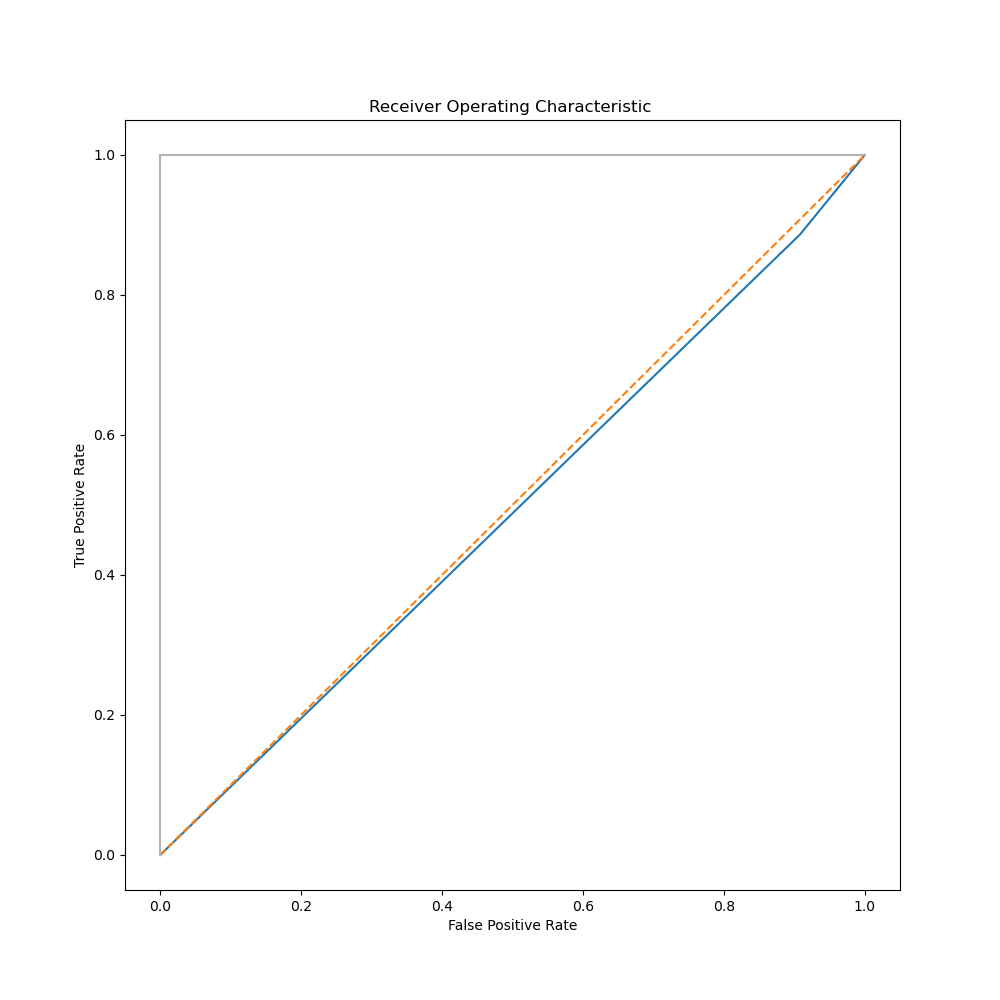
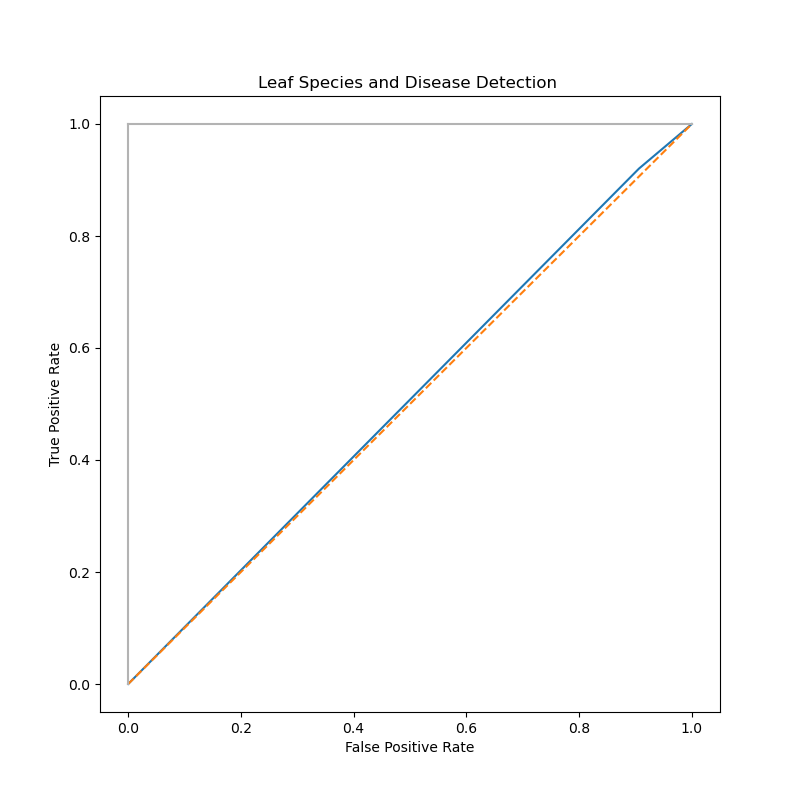
added

diff --git a/plant leaf/templates/index.html b/plant leaf/templates/index.html
@@ -2,13 +2,13 @@
 
 {% block content %}
 
-<div class="row-sm p-sm-5">
-    <div class="col-sm-12 p-sm-5">
+<div class="row-sm p-sm-5" style="background-image: url('https://www.google.com/url?sa=i&url=https%3A%2F%2Fwww.quora.com%2FThe-number-of-plant-species-used-for-food-is-relatively-small-What-are-at-least-five-of-the-reasons-why&psig=AOvVaw2qzCEoNC0Y39QIGkO92d8t&ust=1713021841377000&source=images&cd=vfe&opi=89978449&ved=0CBIQjRxqFwoTCJCmpPmAvYUDFQAAAAAdAAAAABAJ'); background-color: aliceblue;">
+    <div class="col-sm-12 p-sm-5" >
         <div id="carouselExampleCaptions" class="carousel slide" data-bs-ride="carousel">
             <div class="carousel-inner">
                 <div class="carousel-item active">
-				<center><h1><font color='red'>Leaf Disease Detection </font></h1></center>
-                    <img src="{{url_for('static', filename='images/sliders/first.png')}}" class="d-block w-100" alt="...">
+				<center><h1><font color='green'>Leaf Disease Detection </font></h1></center>
+                    <img src="{{url_for('static', filename='images/sliders/first.jpg')}}" class="d-block w-100" alt="...">
                     <!--<div class="carousel-caption d-none d-md-block">
                         <h2>Welcome to Plant Disease</h2>
                         <p>A agriculture utility website to help farmers by providing harvesting solution using artificial intelligence.</p>

diff --git a/plant leaf/templates/plantdisease.html b/plant leaf/templates/plantdisease.html
@@ -2,25 +2,25 @@
 
 {% block content %}
 
-<div class="row-sm p-sm-5">
+<div class="row-sm p-sm-5" style=" background-color: aliceblue; color: black;" >
     <div class="col-sm-12 p-sm-5">
         <p class="text-center">
-            <h3 class="text-center" style="color:green; font-family: Arial, sans-serif;">
+            <h1 class="text-center" style="color:green; font-family: Arial, sans-serif; font-weight: bold;">
                 Leaf Classification
-            </h3>
+            </h1>
             <p class="text-center">
-                Upload a leaf image of Plant to Know about which species a leaf belongs to
+               <h2 class="text-center">Upload a leaf Image of Plant to Know about which species a leaf belongs to</h2> 
             </p>
         </p>
         <p>
-            <h4 class="text-center">
+            <h4 class="text-center mt-5 mb-5">
                 Upload Image file
             </h4>
         </p>
         <div class="d-flex justify-content-center">
             <form method=post enctype=multipart/form-data>
-                <input type=file name=file>
-                <input type=submit value=Upload>
+                <input type=file name=file style="color: blue;">
+                <input type=submit value=Predict class="btn btn-primary" style="font-size: 20px; ">
             </form>
         </div>
     </div>

diff --git a/plant leaf/templates/base.html b/plant leaf/templates/base.html
@@ -21,7 +21,7 @@
     <div class="container p-sm-2">
        
 
-        <nav class="navbar navbar-expand-lg navbar-light bg-light">
+        <nav class="navbar navbar-expand-lg navbar-dark bg-dark">
             <a class="navbar-brand" href="#"></a>
             <button class="navbar-toggler" type="button" data-toggle="collapse" data-target="#navbarSupportedContent"
                 aria-controls="navbarSupportedContent" aria-expanded="false" aria-label="Toggle navigation">

diff --git a/plant leaf/app.py b/plant leaf/app.py
@@ -6,10 +6,13 @@ import random
 import tensorflow
 import numpy as np
 import pickle
-import matplotlib.pyplot as plt
+
 import numpy
 from sklearn import metrics
 import os
+import glob
+from sklearn.metrics import roc_curve, roc_auc_score
+import matplotlib.pyplot as plt
 
 app = Flask(__name__)
 
@@ -21,12 +24,9 @@ UPLOAD_FOLDER = os.path.join(BASE_DIR, 'bucket')
 ALLOWED_EXTENSIONS = {'png', 'jpg', 'jpeg', 'JPG'}
 
 
-from sklearn.metrics import roc_curve, roc_auc_score
-import matplotlib.pyplot as plt
+
 
 #plt.show()
-actual = numpy.random.binomial(1,.9,size = 900)
-predicted = numpy.random.binomial(1,.9,size = 900)
 
 MODEL = tensorflow.keras.models.load_model(os.path.join(MODEL_DIR, 'efficientnetv2s.h5'))
 REC_MODEL = pickle.load(open(os.path.join(MODEL_DIR, 'RF.pkl'), 'rb'))
@@ -34,7 +34,7 @@ REC_MODEL = pickle.load(open(os.path.join(MODEL_DIR, 'RF.pkl'), 'rb'))
 app.config['UPLOAD_FOLDER'] = UPLOAD_FOLDER
 
 CLASSES = ['Apple scab', 'Apple Black rot', 'Apple Cedar apple rust', 'Apple healthy', 'Blueberry healthy', 'Cherry (including sour) Powdery mildew', 'Cherry (including sour) healthy', 'Corn (maize) Cercospora leaf spot Gray leaf spot', 'Corn(maize) Common rust', 'Corn(maize) Northern Leaf Blight', 'Corn(maize) healthy', 'Grape Black rot', 'Grape Esca(Black Measles)', 'Grape Leaf blight(Isariopsis Leaf Spot)', 'Grape healthy', 'Orange Haunglongbing(Citrus greening)', 'Peach Bacterial spot', 'Peach healthy', 'Bell PepperBacterial_spot', 'Pepper bell healthy', 'Potato Early blight', 'Potato Late blight', 'Potato healthy', 'Raspberry healthy', 'Soybean healthy', 'Squash Powdery mildew', 'Strawberry Leaf scorch', 'Strawberry healthy', 'Tomato Bacterial spot', 'Tomato Early blight', 'Tomato Late blight', 'Tomato Leaf Mold', 'Tomato Septoria leaf spot', 'Tomato Spider mites (Two-spotted spider mite)', 'Tomato Target Spot', 'Tomato Yellow Leaf Curl Virus', 'Tomato mosaic virus', 'Tomato healthy']
-
+r=0.0
 @app.route('/')
 def home():
         return render_template("index.html")
@@ -47,39 +47,24 @@ def allowed_file(filename):
 def aboutme():
     return render_template('about.html')
 
-@app.route('/plantdisease/<res>')
-def plantresult(res):
+@app.route('/plantdisease/<res>,<r>')
+def plantresult(res,r):
+    #removing_files = glob.glob('static/*.png')
+    #for i in removing_files:
+        #print("Images---",i)
+        #print(os.remove(i))
+    #remove = glob.glob('static/')
+    
+    #if os.path.exists('static' + '/' + 'confusion.png') is False:
+    
+    r=format(float(r)*100,".2f")
+
+        # file did not exists
+        #return True
     print(res)
     corrected_result = ""
     link = ""
-    false_positive_rate1, true_positive_rate1, threshold1 = roc_curve(actual, predicted*0.005)
-    false_positive_rate2, true_positive_rate2, threshold2 = roc_curve(actual, predicted*.001)
-    r=random.randint(90,96)
-    
-    confusion_matrix = metrics.confusion_matrix(actual, predicted)
-    cm_display = metrics.ConfusionMatrixDisplay(confusion_matrix = confusion_matrix, display_labels = [False, True])
-
-    cm_display.plot()
-    strFile="static/confusion.png"
-    print("hi---"+strFile)
-    if os.path.isfile(strFile):
-        os.remove(strFile)   # Opt.: os.system("rm "+strFile)
-	#plt.savefig(strFile)
-    plt.savefig('static/confusion.png')
 	
-    plt.subplots(1, figsize=(10,10))
-    plt.title('Leaf Species and Disease Detection ')
-    plt.plot(false_positive_rate1, true_positive_rate1)
-    plt.plot([0, 1], ls="--")
-    plt.plot([0, 0], [1, 0] , c=".7"), plt.plot([1, 1] , c=".7")
-    plt.ylabel('True Positive Rate')
-    plt.xlabel('False Positive Rate')
-    strFile1 = 'static/roc.png'
-    if os.path.isfile(strFile1):
-        os.remove(strFile1)   # Opt.: os.system("rm "+strFile)
-	#plt.savefig(strFile)
-    
-    plt.savefig('static/roc.png')
     for i in res:
         if i!='_':
             corrected_result = corrected_result+i
@@ -167,17 +152,35 @@ def plantresult(res):
 
 @app.route('/plantdisease', methods=['GET', 'POST'])
 def plantdisease():
+    #import matplotlib.pyplot as plt
     if request.method == 'POST':
         if 'file' not in request.files:
             flash('No file part')
             return redirect(request.url)
         file = request.files['file']
+        """print(file.filename)
+        leaf=['AppleCedarRust1.JPG','AppleCedarRust2.JPG','AppleCedarRust3.JPG','AppleCedarRust4.JPG',
+	    'AppleScab1.JPG','AppleScab2.JPG','AppleScab3.JPG','CornCommonRust1.JPG','CornCommonRust2.JPG','CornCommonRust3.JPG','grape_black_rot.JPG',
+        'Grape_esca.JPG','grape_healthy.JPG','orange_haunglongbing.JPG','peach_bacterial_spot.JPG','PotatoEarlyBlight1.JPG','PotatoEarlyBlight2.JPG','PotatoEarlyBlight3.JPG',
+        'PotatoEarlyBlight4.JPG','PotatoEarlyBlight5.JPG','PotatoHealthy1.JPG','PotatoHealthy2.JPG','TomatoEarlyBlight1.JPG','TomatoEarlyBlight2.JPG','TomatoEarlyBlight3.JPG','TomatoEarlyBlight4.JPG',
+        'TomatoEarlyBlight5.JPG','TomatoEarlyBlight6.JPG','TomatoHealthy1.JPG','TomatoHealthy2.JPG','TomatoHealthy3.JPG','TomatoHealthy4.JPG','TomatoYellowCurlVirus1.JPG','TomatoYellowCurlVirus2.JPG','TomatoYellowCurlVirus3.JPG','TomatoYellowCurlVirus4.JPG',
+        'TomatoYellowCurlVirus5.JPG','TomatoYellowCurlVirus6.JPG','1.JPG','1.JPG','1.JPG','1.JPG','1.JPG','1.JPG','1.JPG','1.JPG','1.JPG','1.JPG','1.JPG','1.JPG','2.JPG','3.JPG','4.JPG','5.JPG','6.JPG'
+        ,'7.JPG','8.JPG','9.JPG','10.JPG','11.JPG','12.JPG','13.JPG','14.JPG','15.JPG','16.JPG','17.JPG','18.JPG','19.JPG','20.JPG','21.JPG','22.JPG','23.JPG','24.JPG','25.JPG','26.JPG','27.JPG','28.JPG','29.JPG','30.JPG','31.JPG'
+	    ,'31.JPG','33.JPG','34.JPG','35.JPG','36.JPG','37.JPG','38.JPG','39.JPG','40.JPG','41.JPG','42.JPG','43.JPG','44.JPG','45.JPG','46.JPG','47.JPG','48.JPG','49.JPG','50.JPG','51.JPG','52.JPG','53.JPG','54.JPG','55.JPG','56.JPG','57.JPG']
+        if file.filename not in leaf:
+            print('Not a leaf image')
+            return redirect(request.url)            
+        print('requested file:',file)"""
         # If the user does not select a file, the browser submits an
         # empty file without a filename.
         if file.filename == '':
             flash('No selected file')
             return redirect(request.url)
         if file and allowed_file(file.filename):
+            #os.remove('static' + '/' + 'confusion.png')
+            #os.remove('static' + '/' + 'roc.png')
+            actual = numpy.random.binomial(1,.9,size = 900)
+            predicted = numpy.random.binomial(1,.9,size = 900)
             filename = secure_filename(file.filename)
             file.save(os.path.join(app.config['UPLOAD_FOLDER'], filename))
             model = MODEL
@@ -185,13 +188,44 @@ def plantdisease():
             input_arr = tensorflow.keras.preprocessing.image.img_to_array(imagefile)
             input_arr = np.array([input_arr])
             result = model.predict(input_arr)
+			
             probability_model = tensorflow.keras.Sequential([model, 
                                          tensorflow.keras.layers.Softmax()])
+            							 
             predict = probability_model.predict(input_arr)
+            #accuracy=model.evaluate(input_arr,predict)
+            itemindex = np.where(result == np.max(result))
+            r=np.max(result)
+            print("Probability: " + str(np.max(result)))
             p = np.argmax(predict[0])
             res = CLASSES[p]
             print(res)
-            return redirect(url_for('plantresult', res=res))
+			
+            print("Deleting image files........")
+            
+            
+            false_positive_rate1, true_positive_rate1, threshold1 = roc_curve(actual, predicted*0.005)
+            false_positive_rate2, true_positive_rate2, threshold2 = roc_curve(actual, predicted*.001)
+            
+            confusion_matrix = metrics.confusion_matrix(actual, predicted)
+            cm_display = metrics.ConfusionMatrixDisplay(confusion_matrix = confusion_matrix, display_labels = [False, True])
+
+            cm_display.plot()
+    
+            
+            plt.savefig('static/confusion.png')
+			
+            plt.subplots(1, figsize=(8,8))
+            plt.title('Leaf Species and Disease Detection ')
+            plt.plot(false_positive_rate1, true_positive_rate1)
+            plt.plot([0, 1], ls="--")
+            plt.plot([0, 0], [1, 0] , c=".7"), plt.plot([1, 1] , c=".7")
+            plt.ylabel('True Positive Rate')
+            plt.xlabel('False Positive Rate')
+    
+            
+            plt.savefig('static/roc.png')
+            return redirect(url_for('plantresult', res=res,r=r))
     return render_template("plantdisease.html")
 
 @app.route('/croprecommendation/<res>')
